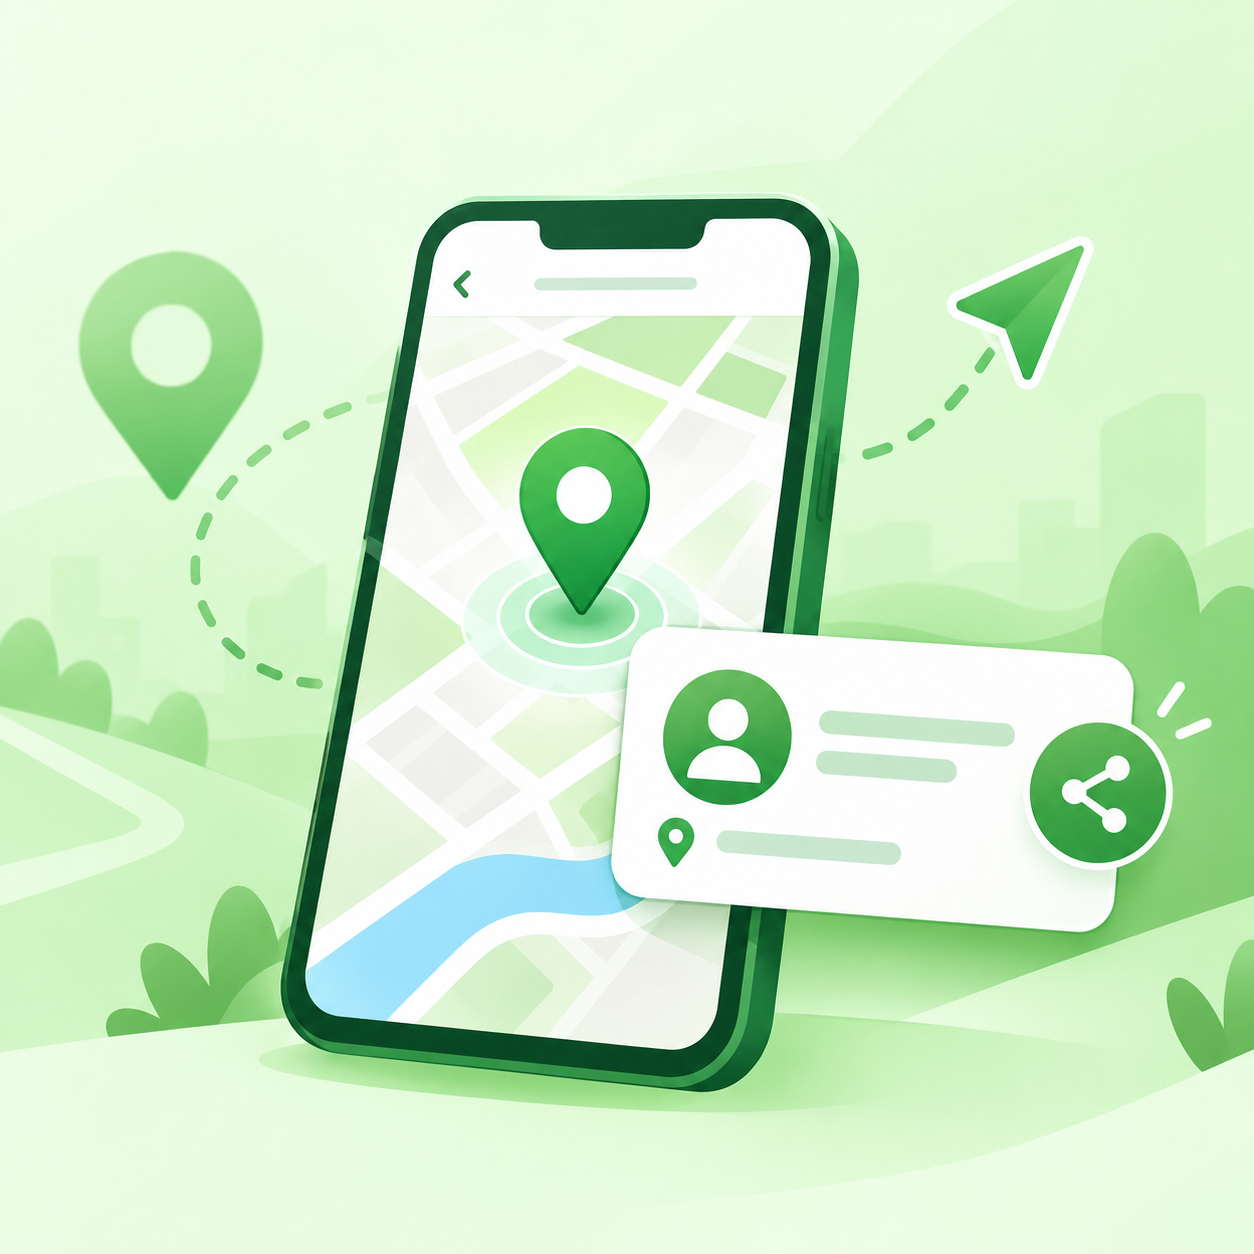
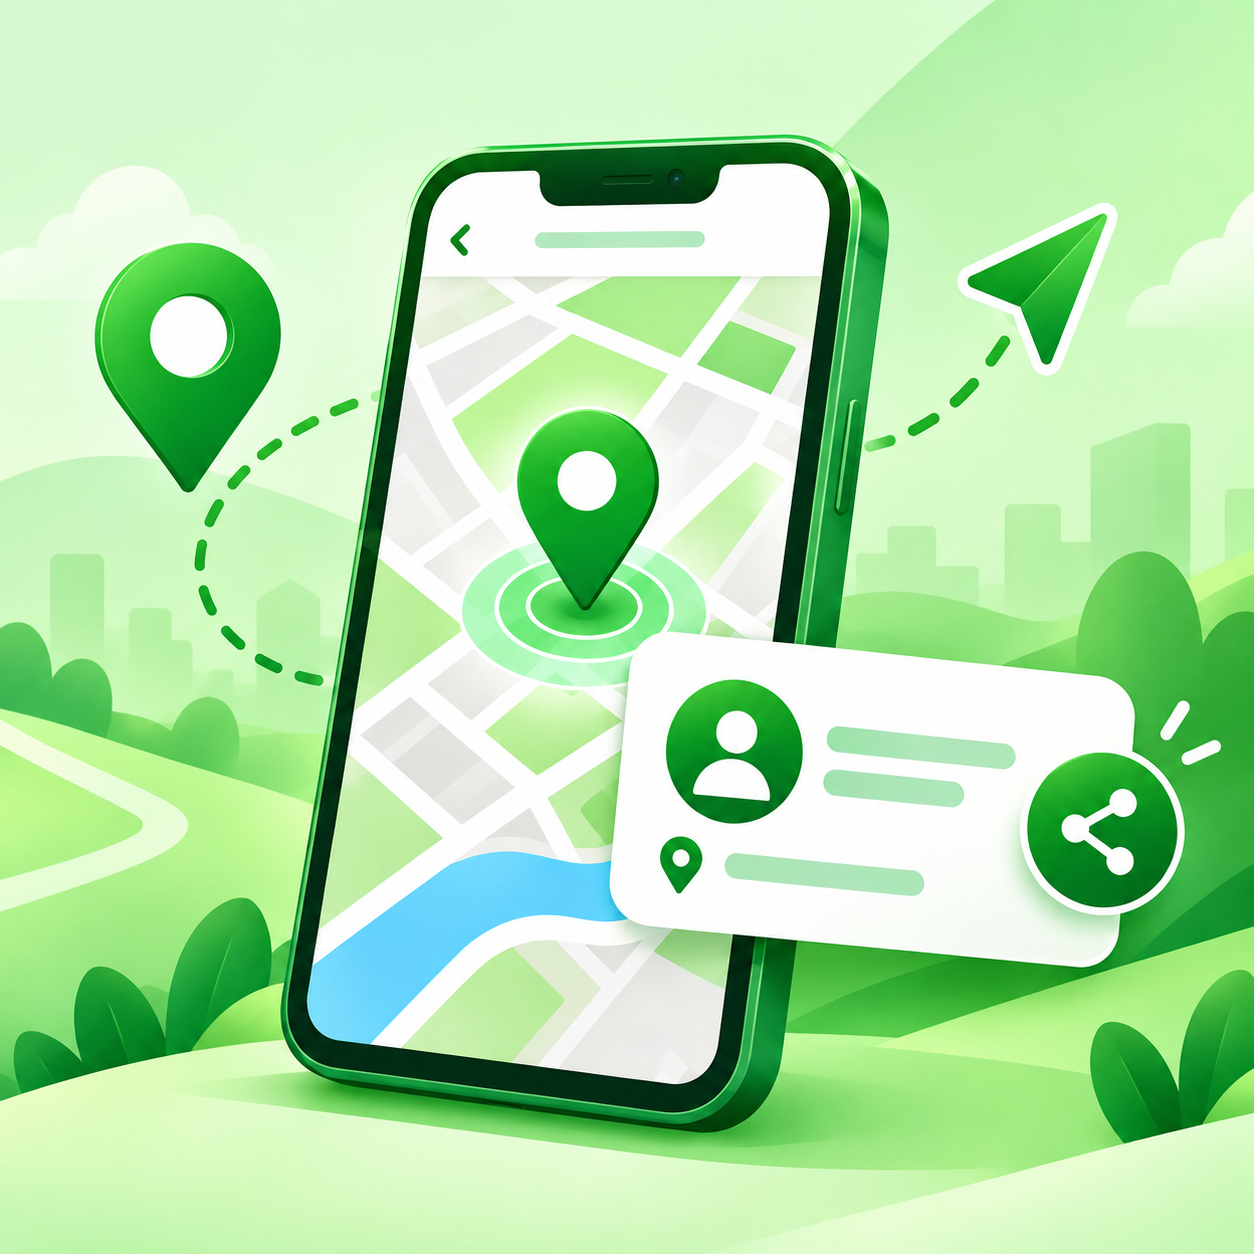
feat+fix: Hoàn thành hoàn chỉnh tính năng chia sẻ vị trí người giao hàng

diff --git a/src/modules/user/presentation/controllers/location.controller.ts b/src/modules/user/presentation/controllers/location.controller.ts
@@ -35,6 +35,7 @@ import { DeliveryOrderNotFoundException } from '@/modules/delivery-route/domain/
 import { GetDeliveryOrdersUsecase } from '@/modules/delivery-route/domain/usecases/get-delivery-orders.usecase';
 import { ConfigService } from '@/core/config/config.service';
 import { Request, Response } from 'express';
+import { CheckPlanUsecase } from '@/modules/delivery-route/domain/usecases/check-plan.usecase';
 
 @Controller('location')
 export class LocationController {
@@ -47,6 +48,7 @@ export class LocationController {
     private readonly getDeliveryRouteUsecase: GetDeliveryRoutesUsecase,
     private readonly getDeliveryOrdersUsecase: GetDeliveryOrdersUsecase,
     private readonly configService: ConfigService,
+    private readonly checkPlanUsecase: CheckPlanUsecase,
   ) {}
 
   @Get('suggestions')
@@ -69,6 +71,11 @@ export class LocationController {
     @AuthPayload() authPayload: JwtPayload,
     @Query() getShareLocationUrlQuery: GetShareLocationUrlQueryReqDto,
   ): Promise<AppResponse> {
+    // Kiểm tra plan
+    await this.checkPlanUsecase.execute(authPayload.userId, {
+      requiresLocationSharing: true,
+    });
+
     return AppResponse.ok(
       await this.getShareLocationUrlUsecase.execute(
         authPayload.userId,
@@ -157,7 +164,9 @@ export class LocationController {
     @Query() getShareLocationQuery: GetShareLocationQueryReqDto,
   ): Promise<AppResponse> {
     return AppResponse.ok(
-      await this.getShareLocationUsecase.execute(getShareLocationQuery.tokenKey),
+      await this.getShareLocationUsecase.execute(
+        getShareLocationQuery.tokenKey,
+      ),
     );
   }
 

diff --git a/src/modules/delivery-route/delivery-route.module.ts b/src/modules/delivery-route/delivery-route.module.ts
@@ -66,6 +66,10 @@ import { PaymentModule } from '../payment/payment.module';
     CreateDeliveryRouteWithOrdersUsecase,
     CheckPlanUsecase,
   ],
-  exports: [GetDeliveryRoutesUsecase, GetDeliveryOrdersUsecase],
+  exports: [
+    GetDeliveryRoutesUsecase,
+    GetDeliveryOrdersUsecase,
+    CheckPlanUsecase,
+  ],
 })
 export class DeliveryRouteModule {}
